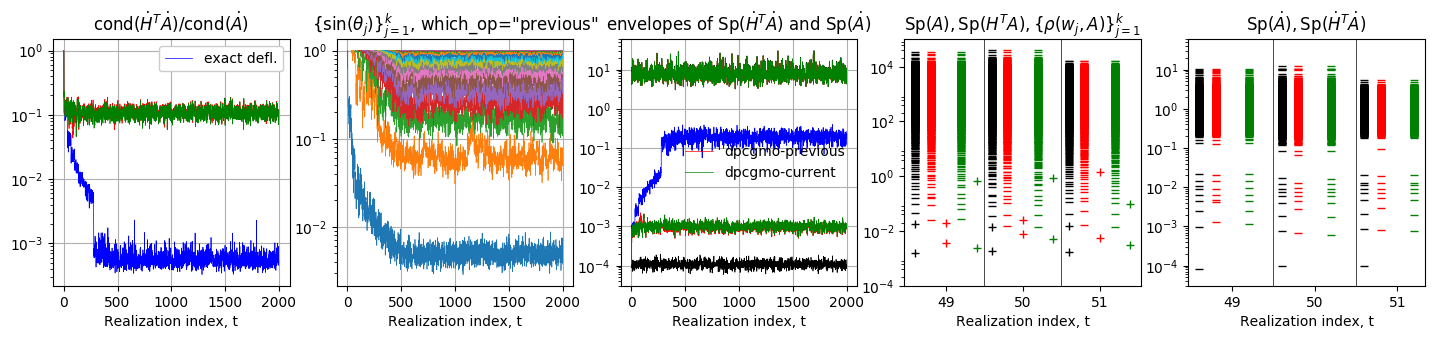
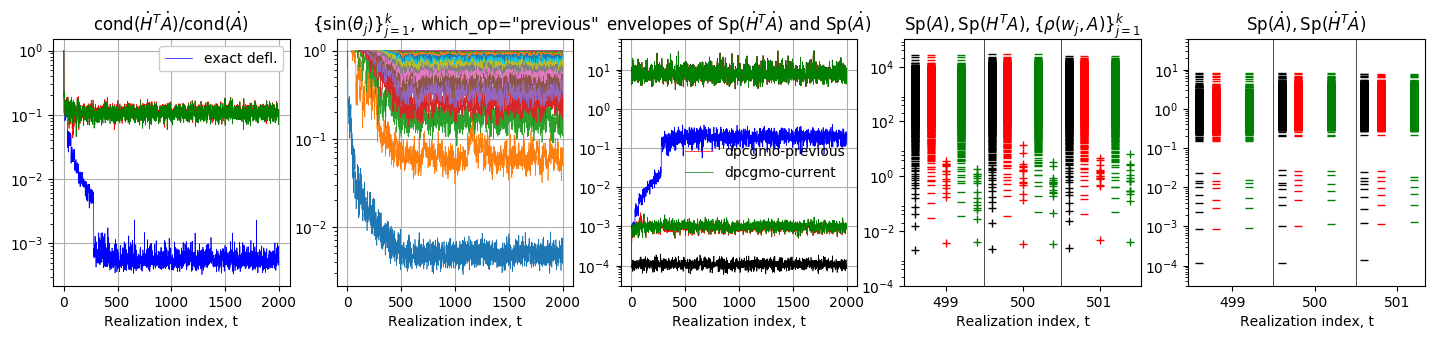
first-commit

diff --git a/examples/example05_recycler_dpcgmo_plot.py b/examples/example05_recycler_dpcgmo_plot.py
@@ -107,7 +107,7 @@ def plot(_smp="mc", precond_id=1, smp=None, smp_SpA=None, dcgmo_SpHtA=None, dcgm
   Sp_bnd = (1e-4, 1e5)
 
   #snapshot = (3000, 9000)
-  snapshot = (50,)
+  snapshot = (500,)
   #snapshot = (500, 3000)
   #snapshot = (5000, 8000)
   #snapshot = (5000, 10000)

diff --git a/README.tex.md b/README.tex.md
@@ -1197,7 +1197,19 @@ _Example05_a4_ (`sig2`=`0.50`; `L`=`0.02`; `model`=`"Exp"`; `kl`=`20`; `kl_strat
 
 ![](./figures/recycler_dpcgmo_example05_a4_mc1.png)
 
+![](./figures/recycler_dpcgmo_example05_a4_mc2.png)
 
+![](./figures/recycler_dpcgmo_example05_a4_mc3.png)
+
+![](./figures/recycler_dpcgmo_example05_a4_mc4.png)
+
+![](./figures/recycler_dpcgmo_example05_a4_mcmc1.png)
+
+![](./figures/recycler_dpcgmo_example05_a4_mcmc2.png)
+
+![](./figures/recycler_dpcgmo_example05_a4_mcmc3.png)
+
+![](./figures/recycler_dpcgmo_example05_a4_mcmc4.png)
 
 
 
